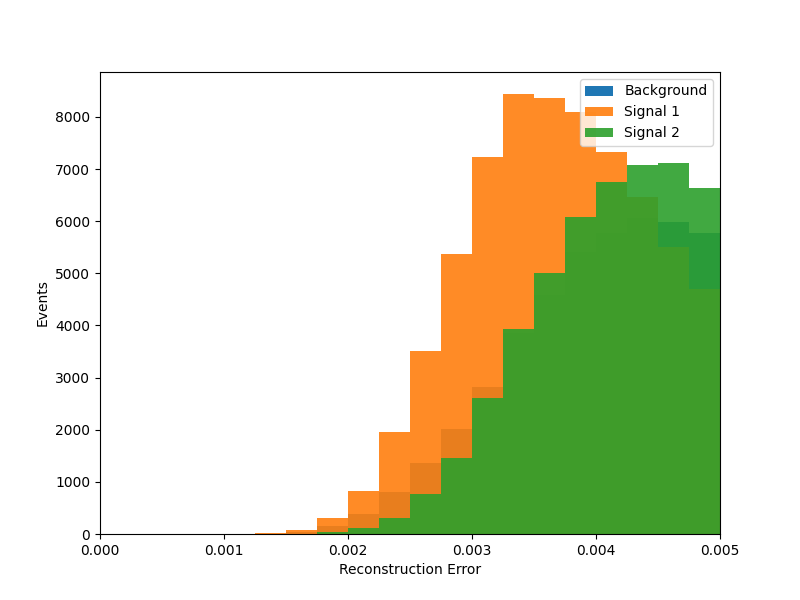
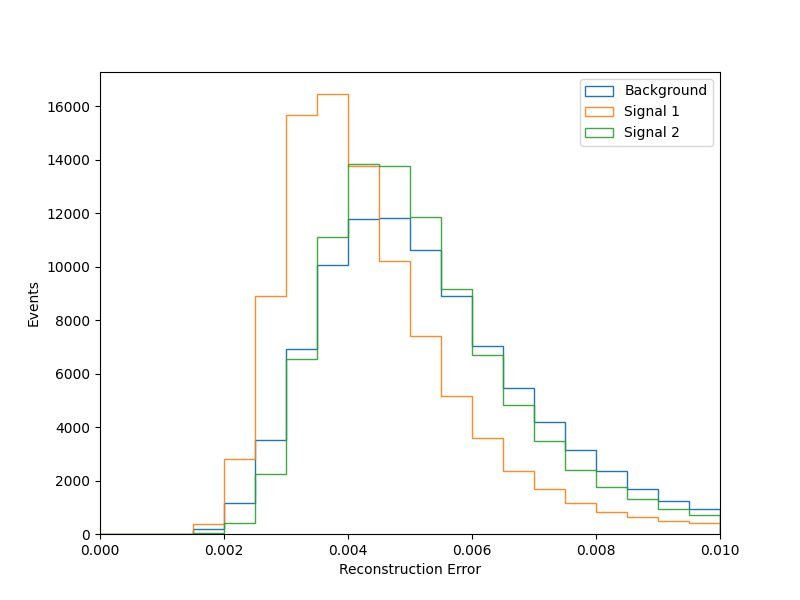
Testing with minmax scaling and 84, 14 layer dimensions

diff --git a/test.py b/test.py
@@ -122,12 +122,12 @@ loss_sig2_total = loss_sig2.sum(axis=1) / 42
 # Plot Total Reconstruction Error
 nbins = 20
 fig, axes = plt.subplots(figsize=(8,6))
-axes.hist([loss_bkg_total], nbins, range=(0, 1), density=0, histtype='step', label=['Background'], stacked=True, alpha=1)
-axes.hist([loss_sig1_total], nbins, range=(0, 1), density=0, histtype='step', label=['Signal 1'], stacked=True, alpha=0.9)
-axes.hist([loss_sig2_total], nbins, range=(0, 1), density=0, histtype='step', label=['Signal 2'], stacked=True, alpha=0.9)
+axes.hist([loss_bkg_total], nbins, range=(0, 0.01), density=0, histtype='step', label=['Background'], stacked=True, alpha=1)
+axes.hist([loss_sig1_total], nbins, range=(0, 0.01), density=0, histtype='step', label=['Signal 1'], stacked=True, alpha=0.9)
+axes.hist([loss_sig2_total], nbins, range=(0, 0.01), density=0, histtype='step', label=['Signal 2'], stacked=True, alpha=0.9)
 axes.set_xlabel(r"Reconstruction Error")
 axes.set_ylabel("Events")
-axes.set_xlim(0, 1)
+axes.set_xlim(0, 0.01)
 axes.legend(loc='upper right')
 fig.savefig(f"figs/testing/reconstruction_error_{scale}_{mid_dim}_{latent_dim}.png")
 
